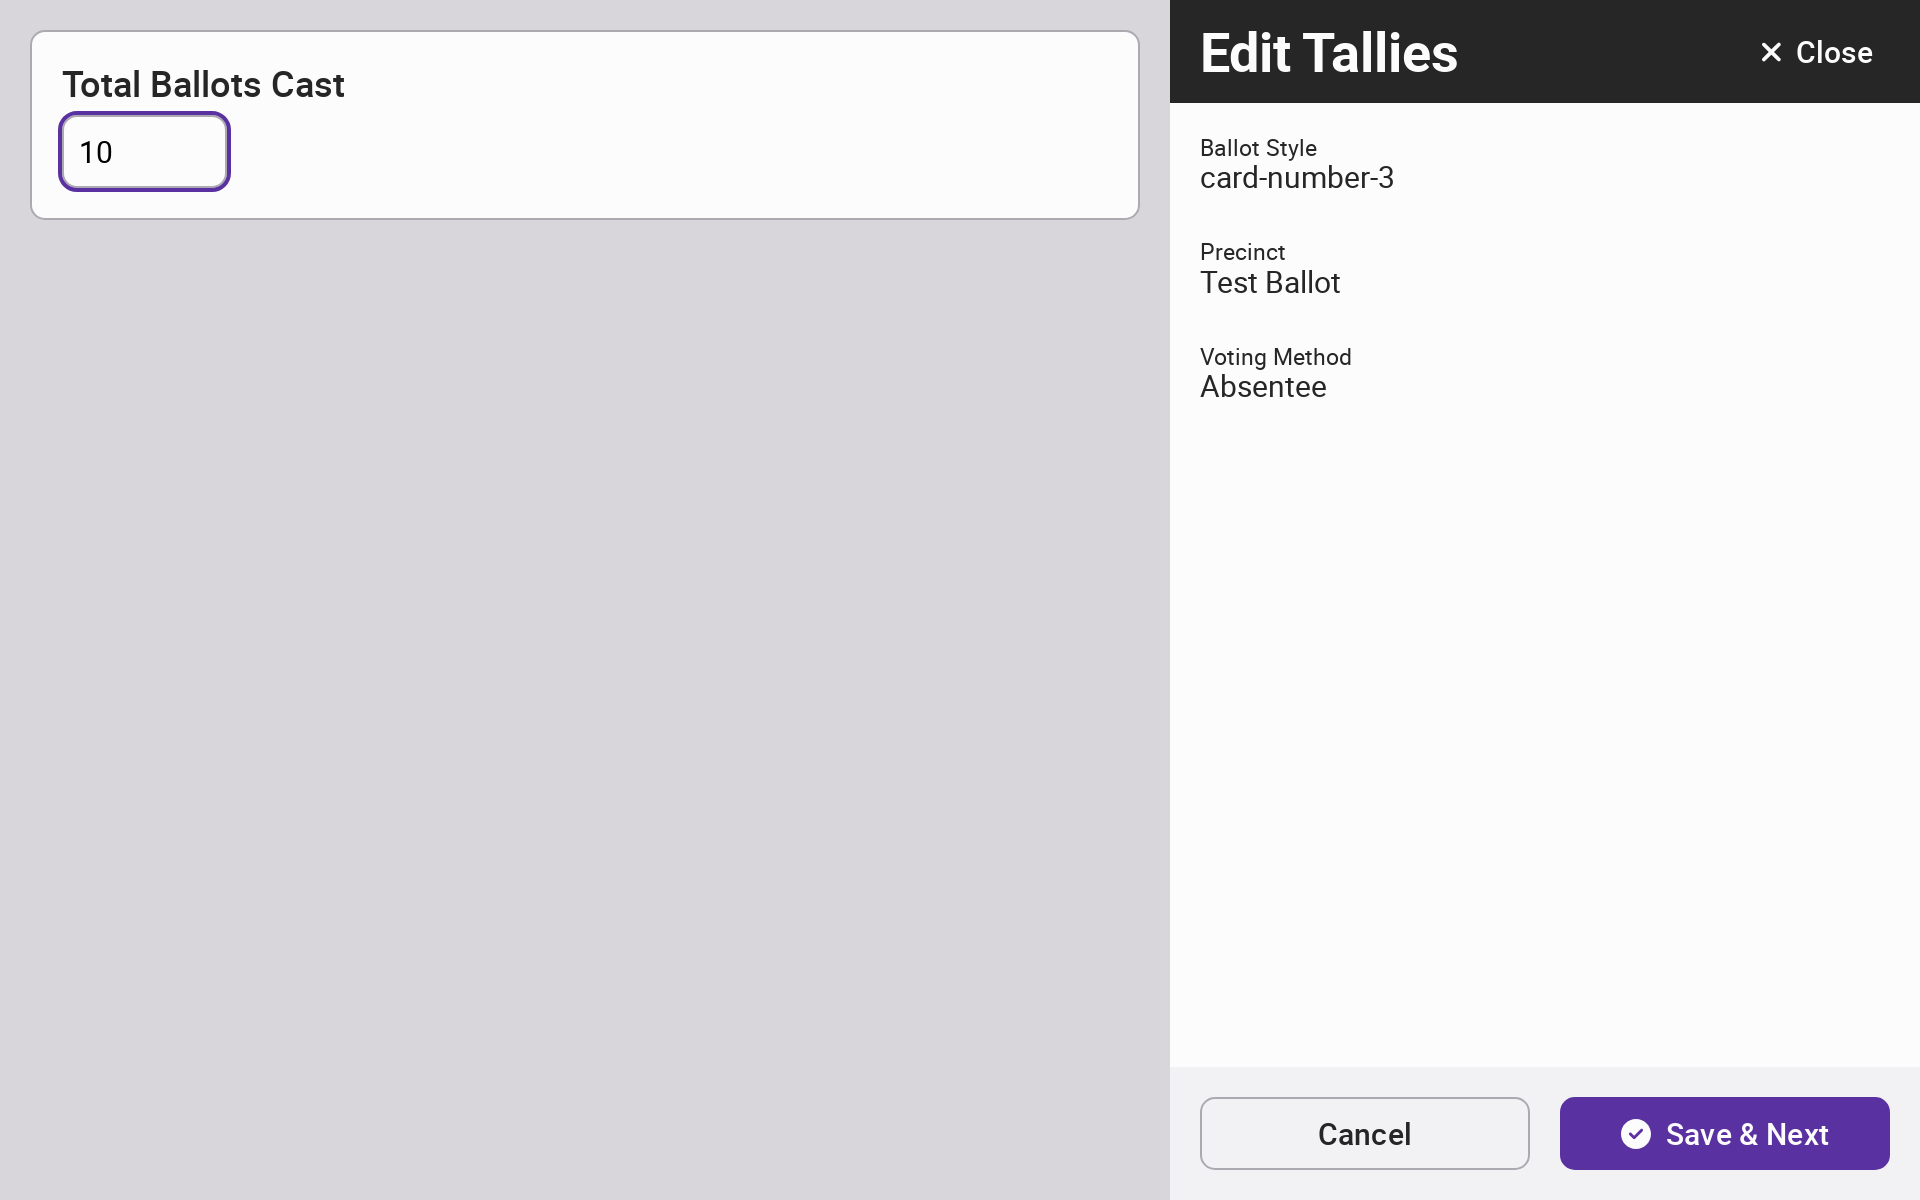
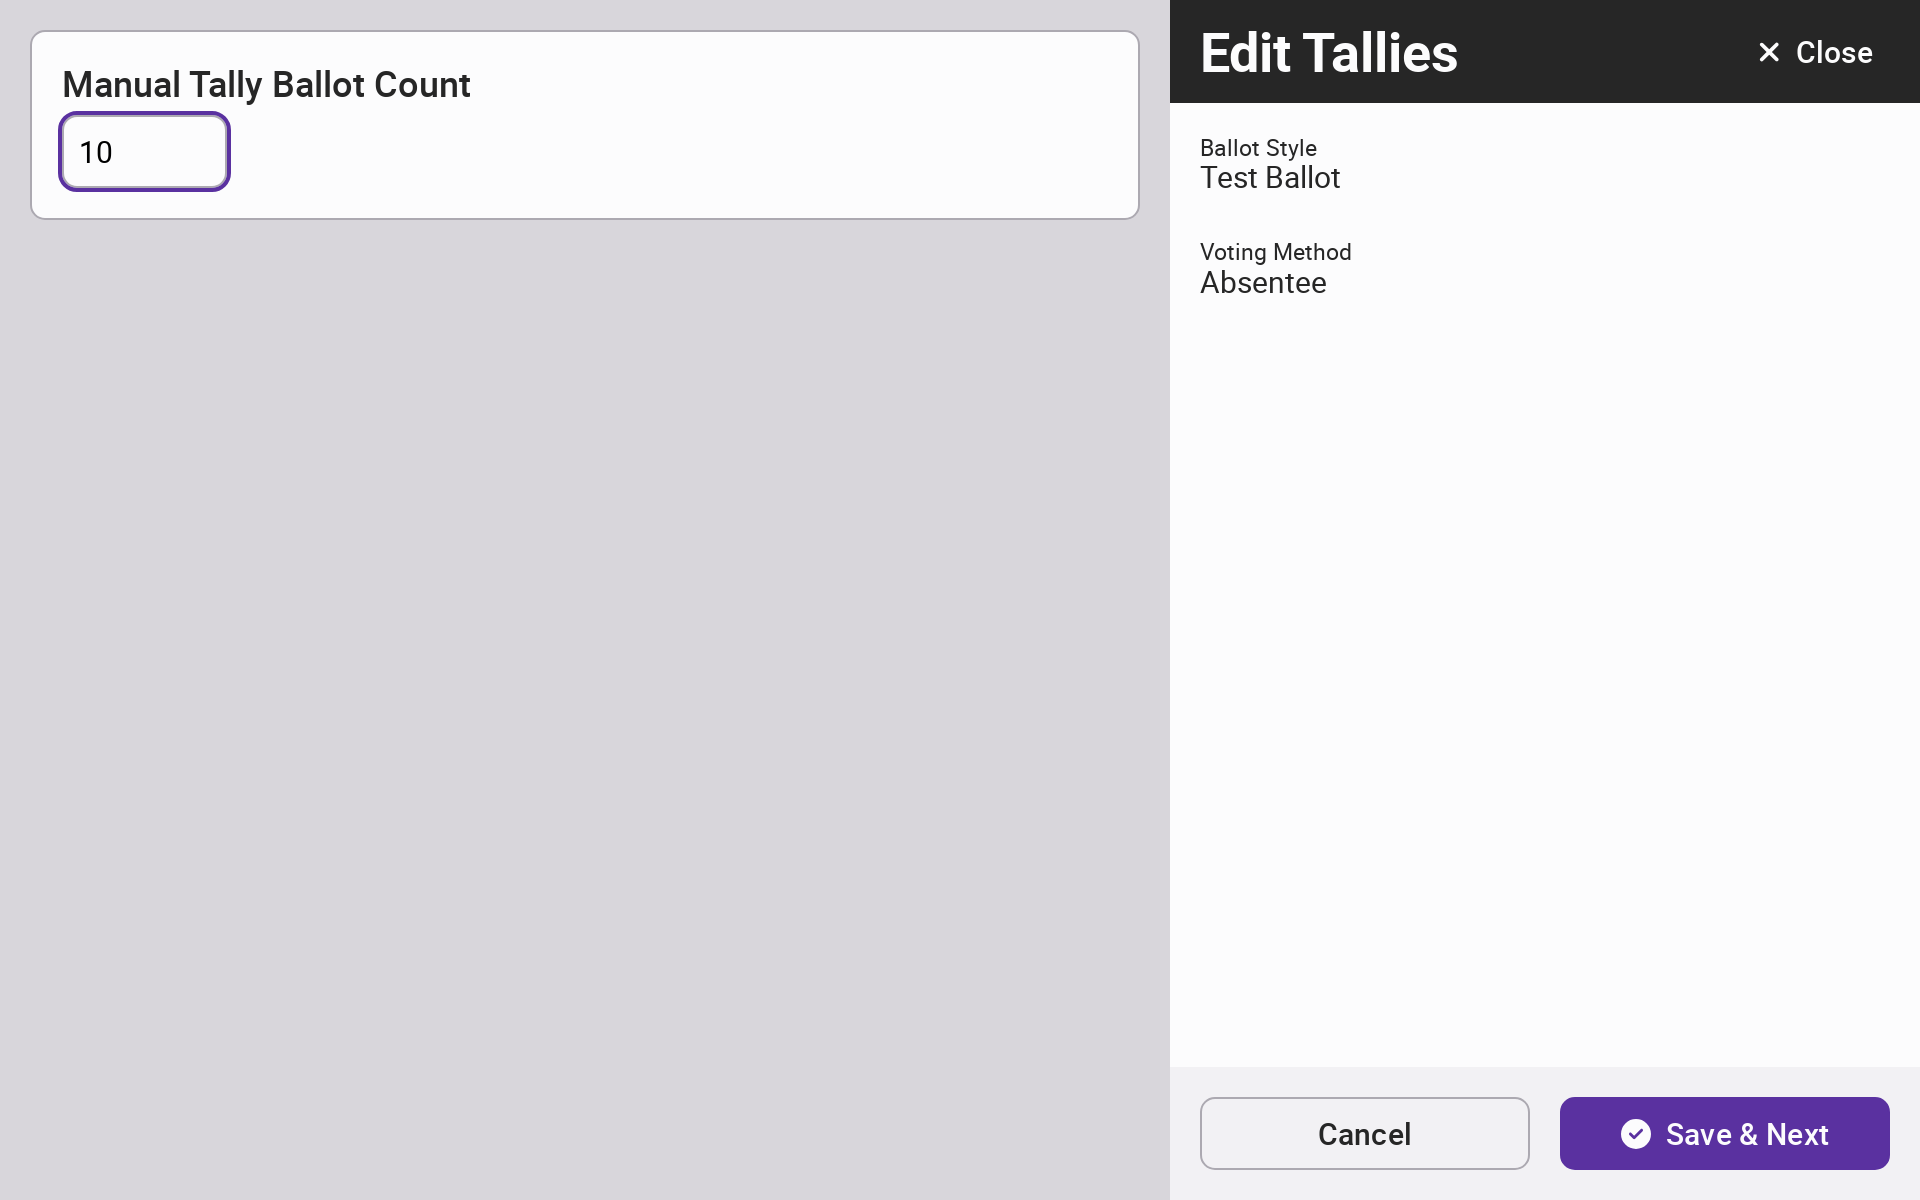
GITBOOK-159: manual tally ballot count copy update

diff --git a/election-night-guides/manual-tallies.md b/election-night-guides/manual-tallies.md
@@ -12,8 +12,8 @@ Enter the Ballot Style, Precinct, and Voting Method of the ballots being added a
 
 <figure><img src="../.gitbook/assets/vxadmin-manual-tallies-metadata-selection.png" alt="" width="375"><figcaption></figcaption></figure>
 
-Start by entering the total ballots cast. By default, the total ballots cast is the same for all contests but can be overridden on a per-contest basis.&#x20;
+Start by entering the manual tally ballot count. By default, the manual tally ballot count is the same for all contests but can be overridden on a per-contest basis.&#x20;
 
 Then enter vote tallies for the first contest, entering undervotes and overvotes in addition to votes cast for each candidate or option.  If a vote is for a write-in candidate, select _`Add Write-In Candidate`_ to enter the name found on the ballot and add a tally. Select _`Save & Next`_ to proceed to the next contest and repeat steps for all contests. Select _`Finish`_ after entering vote tallies for the last contest.
 
-<div><figure><img src="../.gitbook/assets/vxadmin-manual-tallies-total-ballots-cast.png" alt=""><figcaption></figcaption></figure> <figure><img src="../.gitbook/assets/vxadmin-manual-tallies-contest.png" alt=""><figcaption></figcaption></figure></div>
+<div><figure><img src="../.gitbook/assets/manual-tallies-total-ballots-cast.png" alt=""><figcaption></figcaption></figure> <figure><img src="../.gitbook/assets/manual-tallies-contest.png" alt=""><figcaption></figcaption></figure></div>
